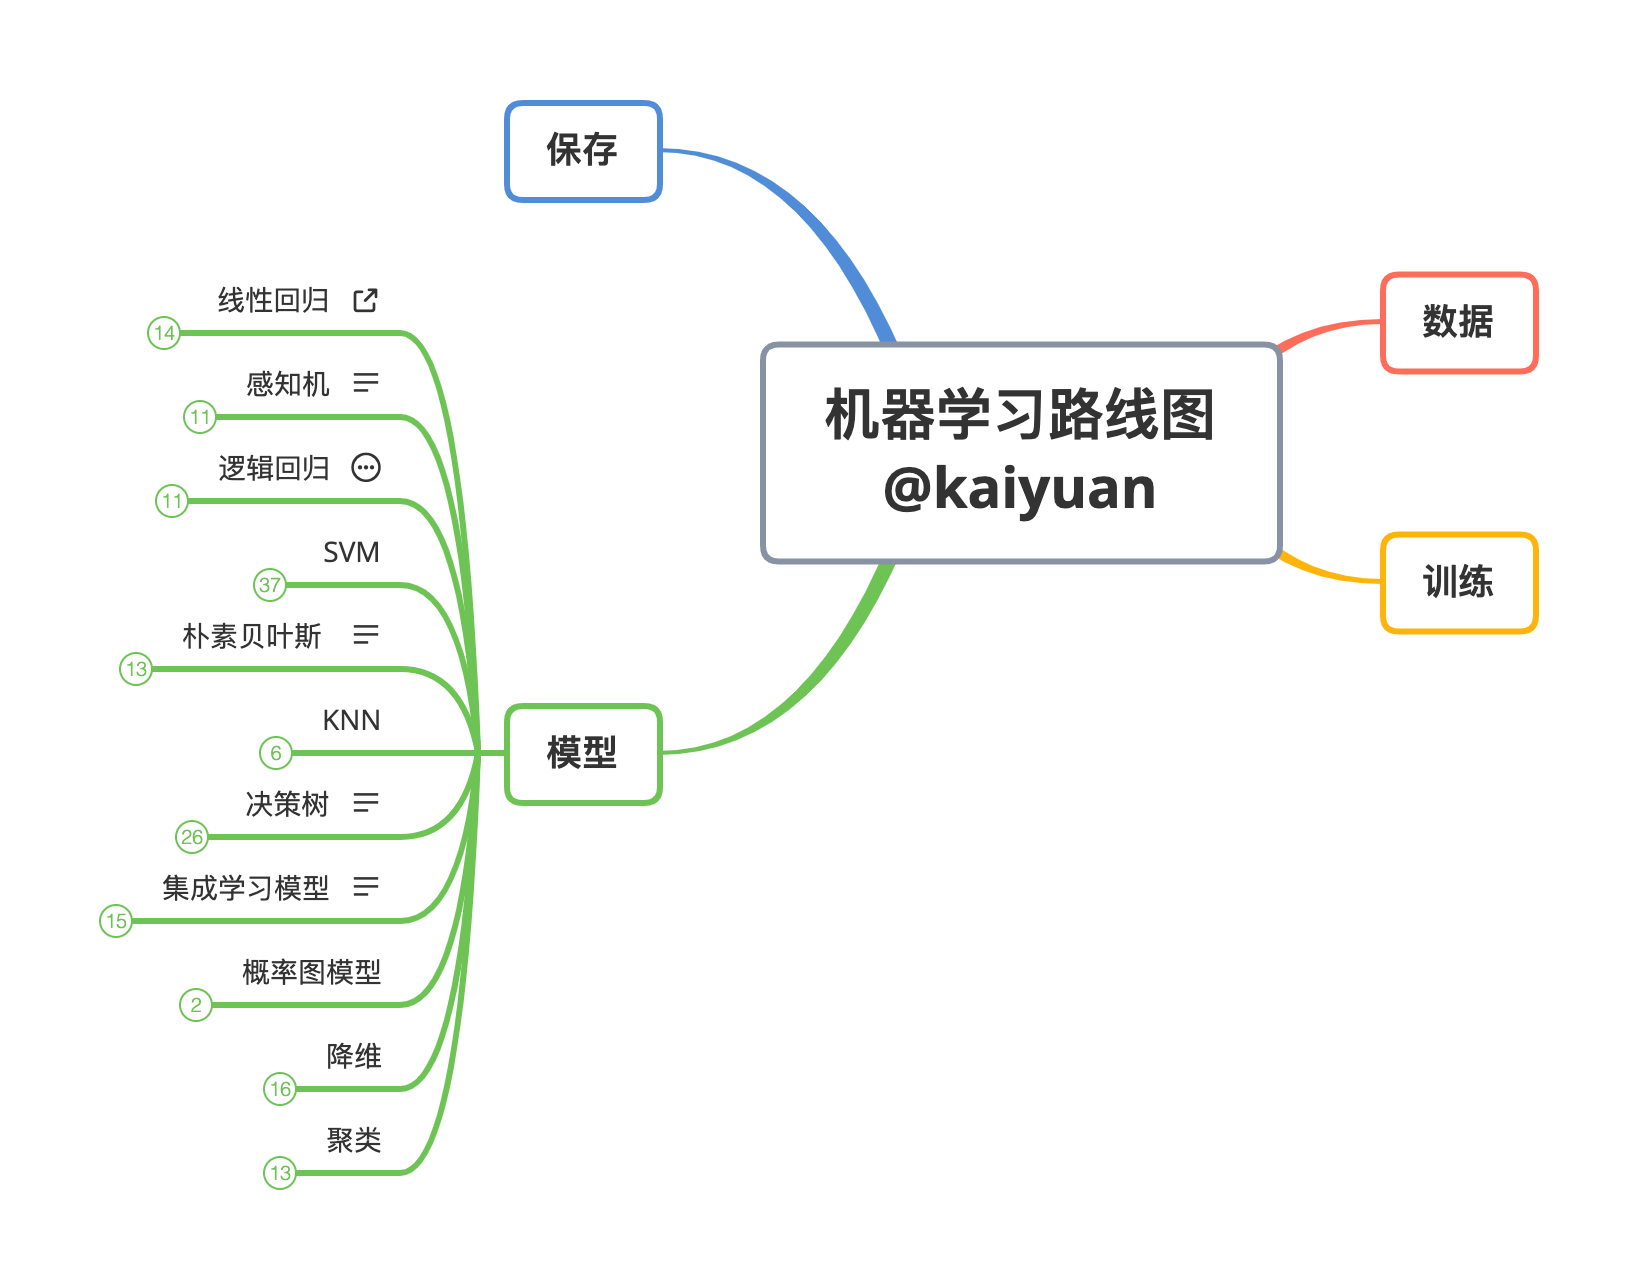
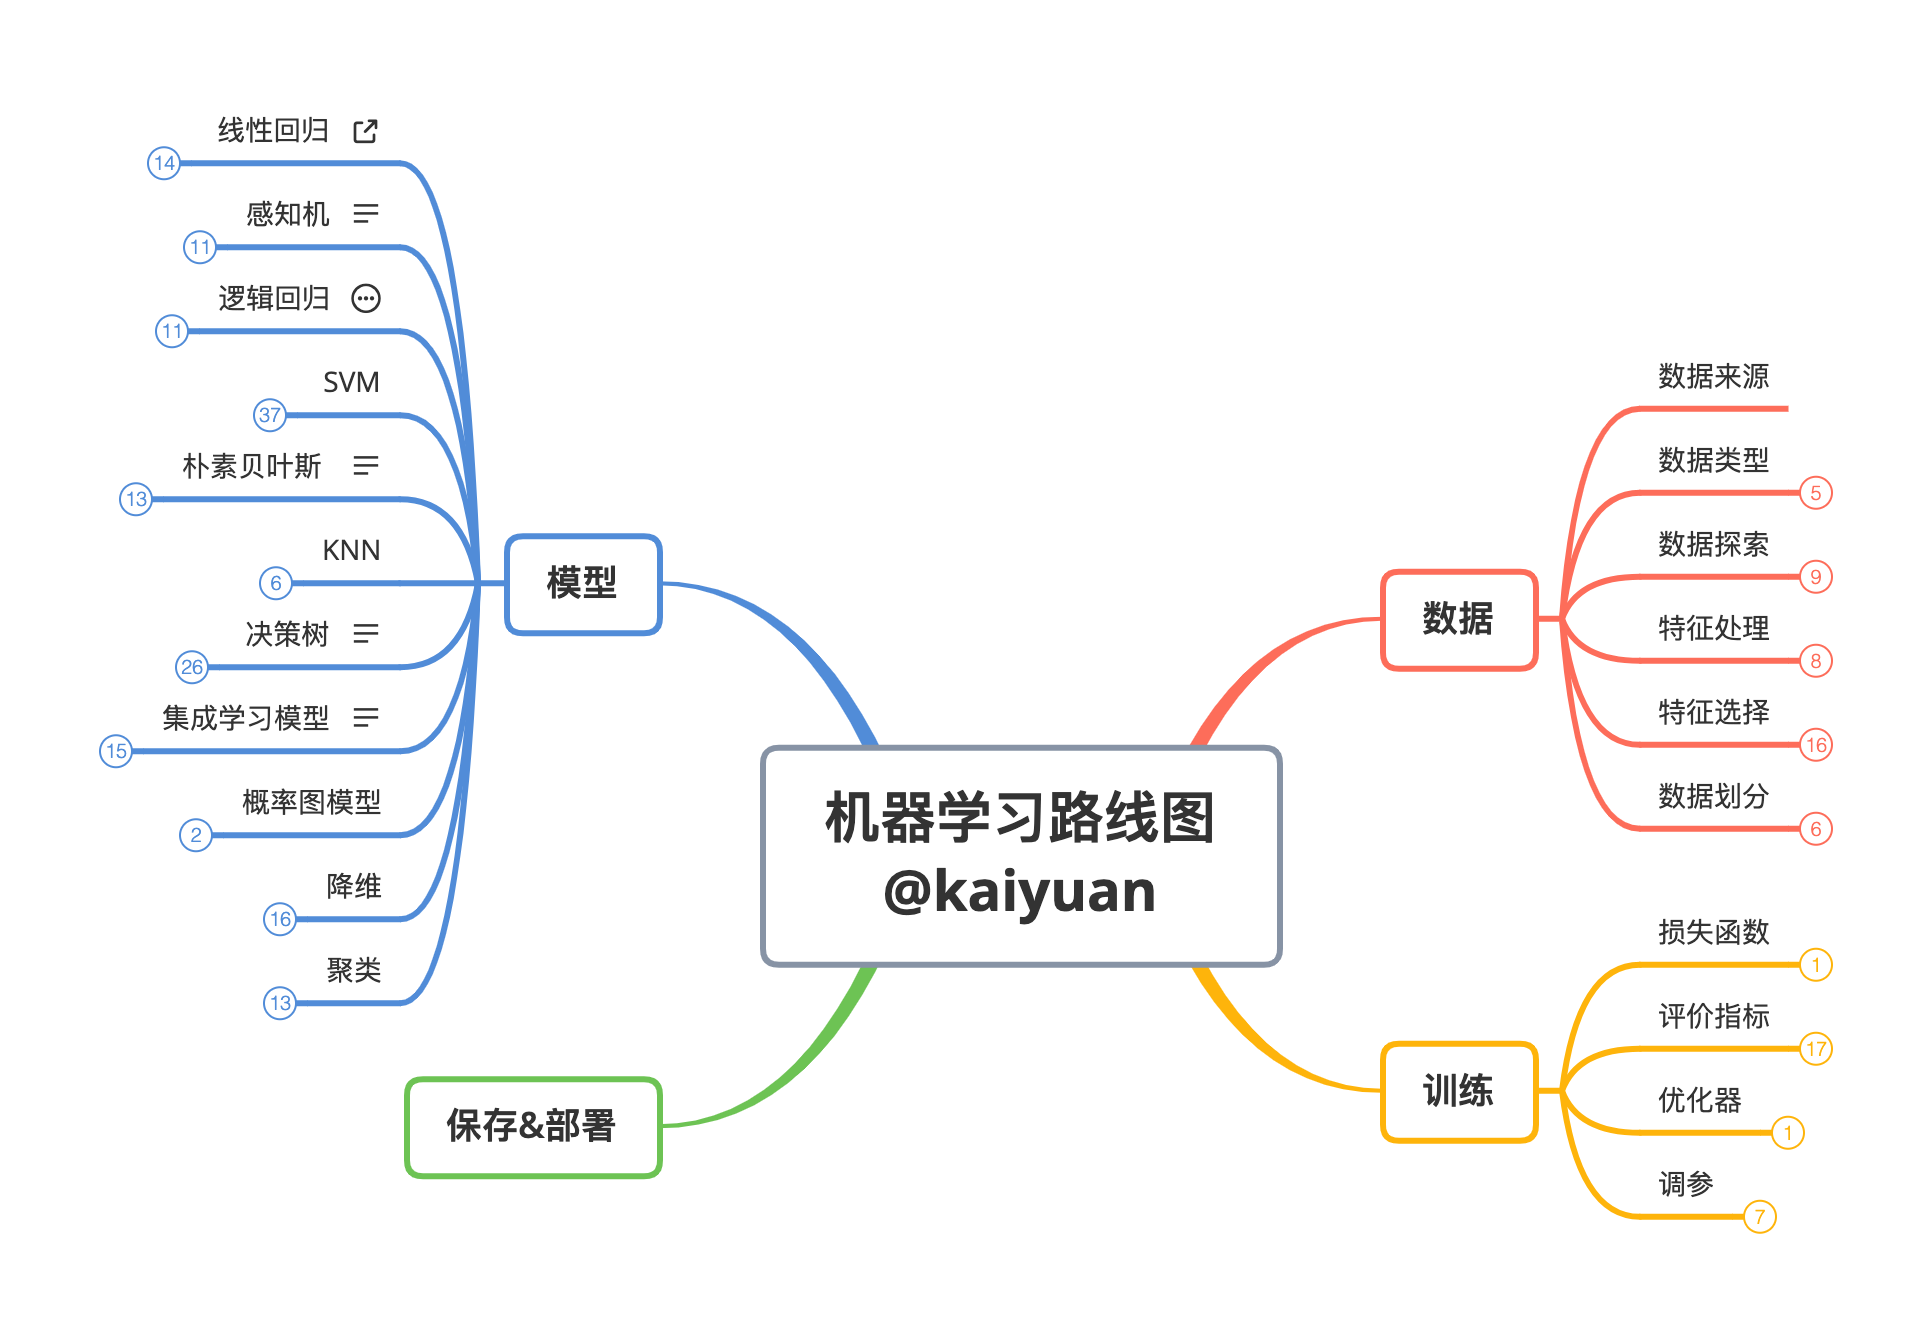
update ML

diff --git a/README.md b/README.md
@@ -57,6 +57,13 @@ The last thing you figure out in writing something is what to put first.
 
 #### 数据
 
+- 数据来源
+- 数据类型
+- 数据探索
+- 数据处理
+- 特征选择
+- 数据划分
+
 #### 模型
 
 - 线性回归
@@ -73,7 +80,12 @@ The last thing you figure out in writing something is what to put first.
 
 #### 训练
 
-#### 保存
+- 损失函数
+- 优化器
+- 评价指标
+- 调参细节
+
+#### 保存&部署
 
 ![](https://github.com/KaiyuanGao/NLP-RoadMap/blob/master/pics/%E6%9C%BA%E5%99%A8%E5%AD%A6%E4%B9%A0%E8%B7%AF%E7%BA%BF%E5%9B%BE%20%40kaiyuan.png)
 
